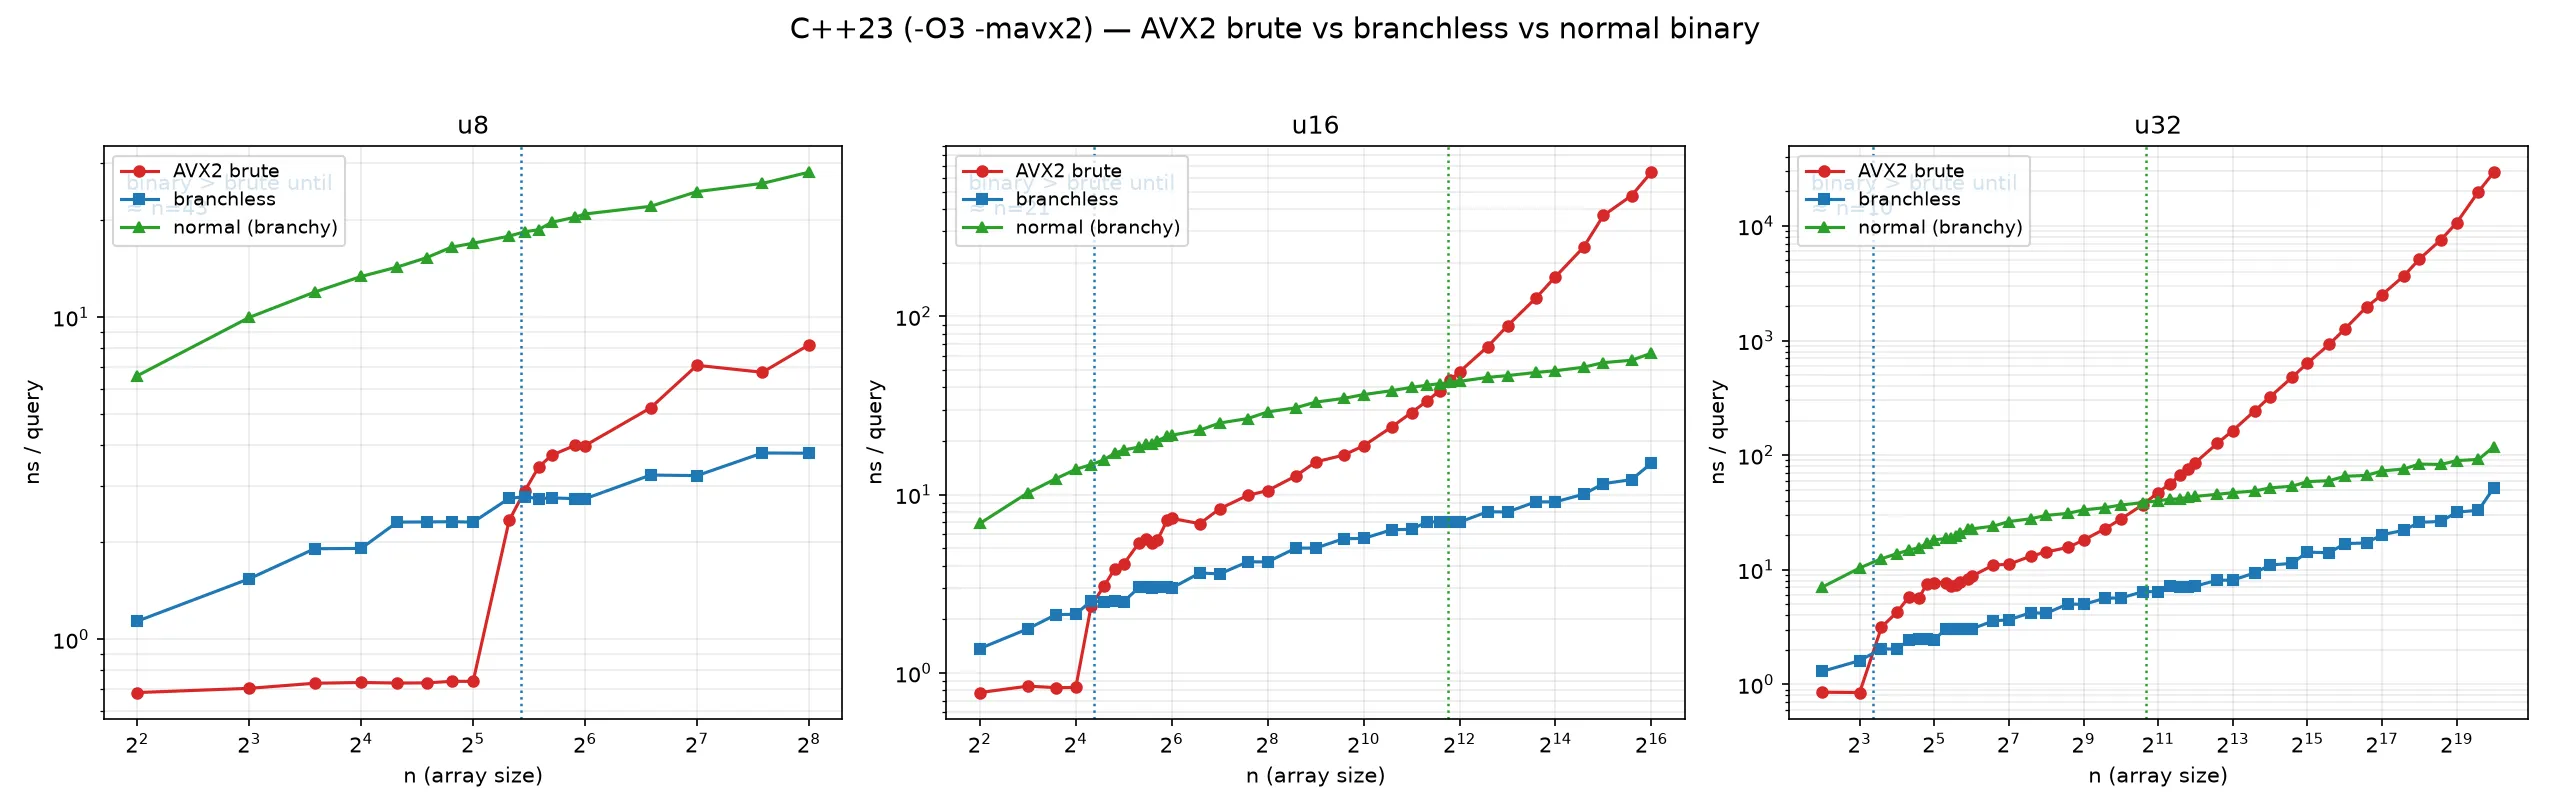
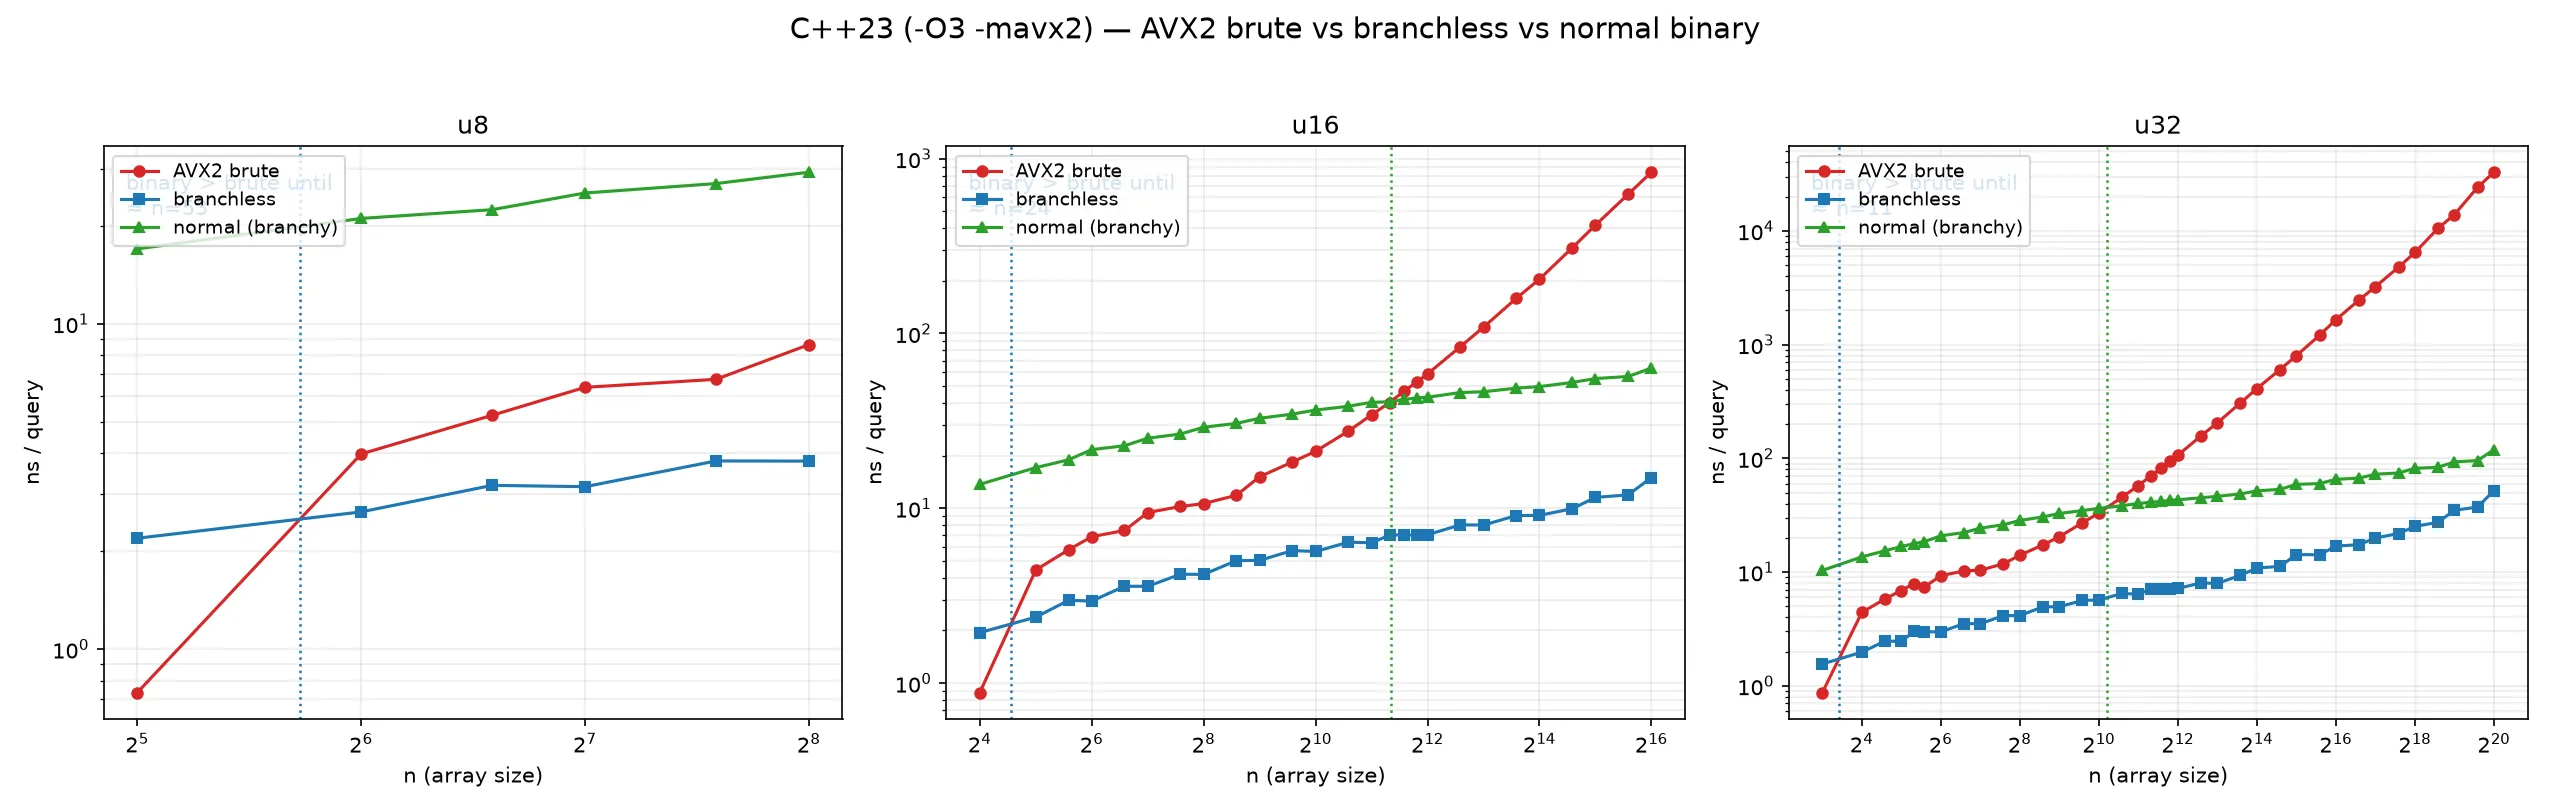
Align benchmark n to AVX2 vector-width multiples (u8=32, u16=16, u32=8)

diff --git a/bench.cpp b/bench.cpp
@@ -220,6 +220,7 @@ static void run_type(const char* name) {
     std::mt19937_64 rng(0x9e3779b97f4a7c15ULL);
     for (size_t n : all_n) {
         if (n > max_n) continue;
+        if (n % W != 0) continue;
 
         std::vector<T> a(n + W, (T)-1);
         for (size_t i = 0; i < n; ++i) a[i] = (T)i;

diff --git a/bench.rs b/bench.rs
@@ -210,6 +210,9 @@ fn run_type<T: BenchVal>(name: &str) {
         if n > max_n {
             continue;
         }
+        if n % w != 0 {
+            continue;
+        }
         let mut a: Vec<T> = vec![T::ZERO; n + w];
         for i in 0..n {
             a[i] = T::from_usize(i);

diff --git a/README.md b/README.md
@@ -10,6 +10,7 @@
 测量：固定单个 P-core（`taskset -c 0`），三种方法交错测量；每个方法先校准到约 3 ms
 一轮的查询数，再跑 9 轮取中位数。Rust 查询用 splitmix64 的高 32 位生成，避免
 LCG 在 2 的幂 n 上出现周期性坏数据。C++ 和 Rust 必须串行跑，不能并行抢核。
+n 只取 vector 宽度整数倍（u8=32、u16=16、u32=8），避免半向量尾巴影响比较。
 
 ## 复现
 
@@ -26,13 +27,13 @@ make plot              # 生成 4 张图 + 输出临界点
 
 | 类型 | vs branchless（C++23） | vs normal（C++23） | vs branchless（Rust） | vs normal（Rust） |
 | --- | ---: | ---: | ---: | ---: |
-| u8 | ≈ 43 | 到 256 仍未反超 | ≈ 38 | 到 256 仍未反超 |
-| u16 | ≈ 21 | ≈ 3450 | ≈ 18 | ≈ 3050 |
-| u32 | ≈ 10 | ≈ 1630 | ≈ 8 | ≈ 1310 |
+| u8 | ≈ 53 | 到 256 仍未反超 | ≈ 45 | 到 256 仍未反超 |
+| u16 | ≈ 24 | ≈ 2600 | ≈ 20 | ≈ 3010 |
+| u32 | ≈ 11 | ≈ 1180 | ≈ 9 | ≈ 1260 |
 
 直观结论：
 
-- u8 数据里 AVX2 brute 对普通二分在 256 个唯一值内全程更快；对无分支二分大约在 40 个元素左右反超。
+- u8 数据里 AVX2 brute 对普通二分在 256 个唯一值内全程更快；对无分支二分大约在 32~64 之间反超。
 - u16/u32 的“对 branchless 临界点”大约就是 1~1.5 个 AVX2 vector 能覆盖的长度（16/8 个元素量级）。
 - 普通二分因为分支预测失败，在缓存内小数组上非常吃亏；AVX2 brute 能压到几千个元素（u16/u32）甚至整个 u8 值域。
 
